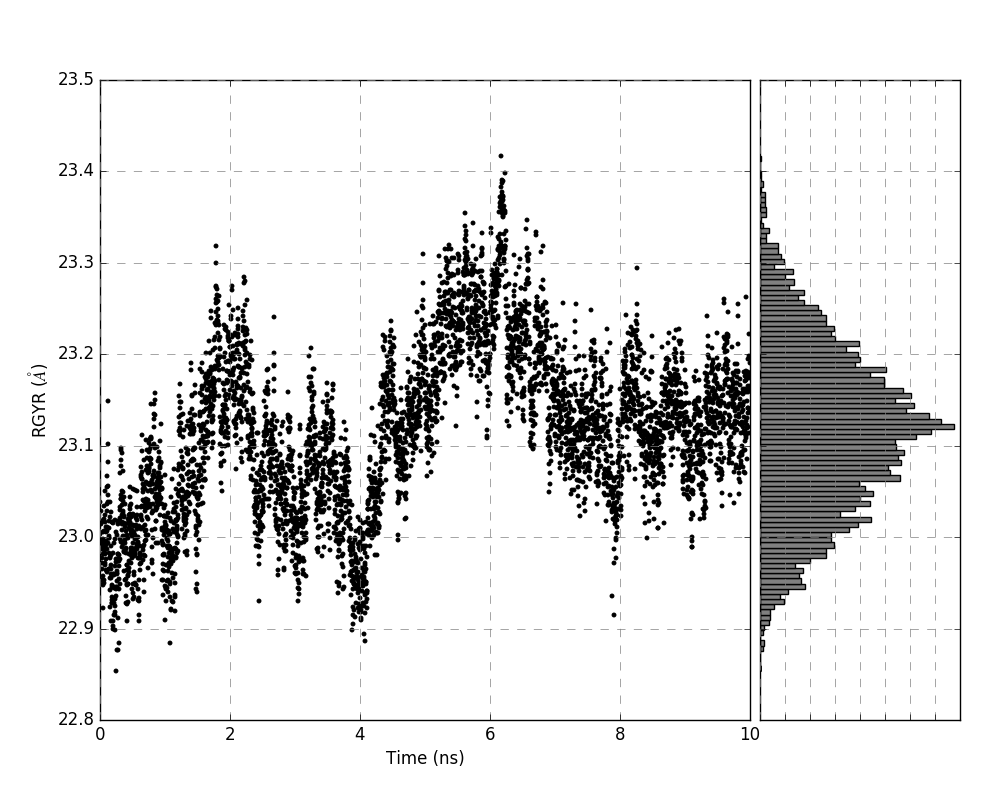
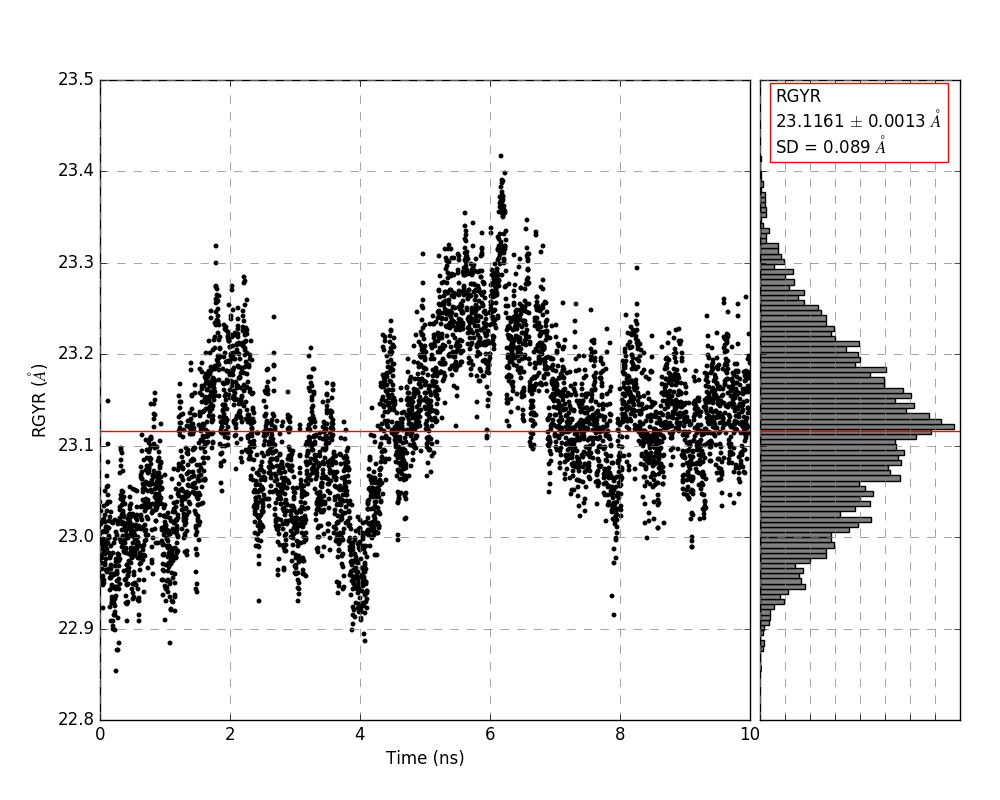
added kwargs/average calc to scat_hist function

Changed region(s): [[0.775, 0.0938, 0.961, 0.2188], [0.124, 0.5312, 0.744, 0.5625], [0.775, 0.5312, 0.961, 0.5625]]

diff --git a/plotting_functions.py b/plotting_functions.py
@@ -18,7 +18,6 @@ nullfmt = NullFormatter()
 # PLOTTING SUBROUTINES
 
 def plot_1d(xdata, ydata, color, x_axis, y_axis, system, analysis, average = False, t0 = 0, **kwargs):
-	
 	""" Creates a 1D scatter/line plot:
 
 	Usage: plot_1d(xdata, ydata, color, x_axis, y_axis, system, analysis, average = [False|True], t0 = 0)
@@ -73,7 +72,7 @@ def plot_1d(xdata, ydata, color, x_axis, y_axis, system, analysis, average = Fal
 	plt.close()
 
 
-def hist1d(data, x_axis, num_b, system, analysis, norm = False, average = False, t0 = 0, **kwargs):
+def hist1d(data, x_axis, system, analysis, num_b = 100, norm = False, average = False, t0 = 0, **kwargs):
 	""" Creates a 1D histogram:
 
 	Usage: hist1d(data, x_axis, num_b, system, analysis, norm)
@@ -81,10 +80,10 @@ def hist1d(data, x_axis, num_b, system, analysis, norm = False, average = False,
 	Arguments:
 	data: self-explanatory
 	x_axis: string to be used for the axis label
-	num_b: number of bins to be used when binning the data
 	system: descriptor for the system analyzed
 	analysis: descriptor for the analysis performed and plotted
-	norm = [False][True]; if False, plotting a frequency of data; if True, plotting a probability density
+	num_b: number of bins to be used when binning the data; Default is 100
+	norm = [False][True]; Default is False; if False, plotting a frequency of data; if True, plotting a probability density
 	average: [False|True]; Default is False; if set to True, the function will calc the average, standard dev, and standard dev of mean of the y-data
 	t0: index to begin averaging from; Default is 0
 
@@ -142,7 +141,7 @@ def hist1d(data, x_axis, num_b, system, analysis, norm = False, average = False,
 	patches = []
 
 
-def scat_hist(xdata, ydata, color, x_axis, y_axis, system, analysis, num_b):
+def scat_hist(xdata, ydata, color, x_axis, y_axis, system, analysis, num_b = 100, average = False, t0 = 0, **kwargs):
 	""" Creates 1D scatter plot w/ a 1D histogram
 
 	Usage: scat_hist(xdata, ydata, color, x_axis, y_axis, system, analysis, num_b)
@@ -153,22 +152,53 @@ def scat_hist(xdata, ydata, color, x_axis, y_axis, system, analysis, num_b):
 	x_axis, y_axis: strings to be printed on the axi labels
 	system: descriptor for the system analyzed
 	analysis: descriptor for the analysis performed and plotted
-	num_b: number of bins to be used when binning the data
-	"""
+	num_b: number of bins to be used when binning the data; Default is 100
+	average: [False|True]; Default is False; if set to True, the function will calc the average, standard dev, and standard dev of mean of the y-data
+	t0: index to begin averaging from; Default is 0
+	
+	kwargs:
+		xunits, yunits: string with correct math text describing the units for the x/y data
+		x_lim, y_lim: list w/ two elements, setting the limits of the x/y ranges of plot
+		plt_title: string to be added as the plot title
 
+	"""
+	# INITIATING THE PLOT SIZES
 	left, width = 0.1, 0.65
 	bottom, height = 0.1, 0.8
 	bottom_h = left_h = left+width+0.01
 	rect_scatter = [left, bottom, width, height]
 	rect_histy = [left_h, bottom, 0.2, height]
 	
+	# INITIATING THE PLOT...
 	plt.figure(1, figsize=(10,8))
 	axScatter =plt.axes(rect_scatter)
 	axScatter.plot(xdata, ydata, '%s.' %(color))
+	
+	# READING IN KWARG DICTIONARY INTO SPECIFIC VARIABLES
+	for name, value in kwargs.items():
+		if name == 'xunits':
+			x_units = value
+			x_axis = '%s (%s)' %(x_axis, value)
+		elif name == 'yunits':
+			y_units = value
+			y_axis = '%s (%s)' %(y_axis, value)
+		elif name == 'x_lim':
+			plt.xlim(value)
+		elif name == 'y_lim':
+			plt.ylim(value)
+		elif name == 'plt_title':
+			plt.title(r'%s' %(value), size='14')
+	
 	plt.grid(b=True, which='major', axis='both', color='#808080', linestyle='--')
 #	plt.xlim((0,500))
 	plt.ylabel(r'%s' %(y_axis),size=12)
 	plt.xlabel(r'%s' %(x_axis),size=12)
+
+	if average != False:
+		avg = np.sum(ydata[t0:])/len(ydata[t0:])
+		SD = stdev(ydata[t0:])
+		SDOM = SD/sqrt(len(ydata[t0:]))
+		plt.axhline(avg, xmin=0.0, xmax=1.0, c='r')
 
 	axHisty = plt.axes(rect_histy)
 	axHisty.yaxis.set_major_formatter(nullfmt)
@@ -176,6 +206,11 @@ def scat_hist(xdata, ydata, color, x_axis, y_axis, system, analysis, num_b):
 	plt.grid(b=True, which='major', axis='both', color='#808080', linestyle='--')
 	axHisty.hist(ydata, bins=num_b, orientation='horizontal', color = ['gray'])
 	axHisty.set_ylim(axScatter.get_ylim())
+	
+	# CALCULATING THE AVERAGE/SD/SDOM OF THE Y-DATA
+	if average != False:
+		plt.axhline(avg, xmin=0.0, xmax=1.0, c='r')
+		plt.figtext(0.775, 0.810, '%s\n%6.4f $\\pm$ %6.4f %s \nSD = %4.3f %s' %(analysis, avg, SDOM, y_units, SD, y_units), bbox=dict(boxstyle='square', ec='r', fc='w'), fontsize=12)
 	
 	plt.savefig('%s.%s.scat_hist.png' %(system, analysis))
 	plt.close()

diff --git a/rgyr_plotting.py b/rgyr_plotting.py
@@ -30,11 +30,11 @@ for i in range(len(sel)):
 	
 	plot_1d(time[:], datalist1[:,i], 'k', 'Time', 'RGYR', '%02d.%s.%s' %(i, system, selection), 'RGYR', average = True, xunits = 'ns', yunits = '$\AA$')
 
-	hist1d(datalist1[:,i], 'RGYR', 100, '%02d.%s.%s' %(i, system, selection), 'RGYR', xunits = '$\AA$')
+	hist1d(datalist1[:,i], 'RGYR', '%02d.%s.%s' %(i, system, selection), 'RGYR', num_b = 100, xunits = '$\AA$')
 
-	hist1d(datalist1[:,i], 'RGYR', 100, '%02d.%s.%s' %(i, system, selection), 'RGYR', norm = True, average = True, xunits = '$\AA$')
+	hist1d(datalist1[:,i], 'RGYR', '%02d.%s.%s' %(i, system, selection), 'RGYR', num_b = 100, norm = True, average = True, xunits = '$\AA$')
 
-	scat_hist(time[:], datalist1[:,i], 'k', 'Time (ns)', 'RGYR ($\AA$)', '%02d.%s.%s' %(i, system, selection), 'RGYR', 100)
+	scat_hist(time[:], datalist1[:,i], 'k', 'Time', 'RGYR', '%02d.%s.%s' %(i, system, selection), 'RGYR', num_b = 100, average = True, xunits = 'ns', yunits = '$\AA$')
 
 hist2d(datalist1[:,0],datalist1[:,1], 'Column 0 RGYR ($\AA$)', 'Column 1 RGYR ($\AA$)', 100, '%s.%s' %(system, selection), 'RGYR', False)
 
